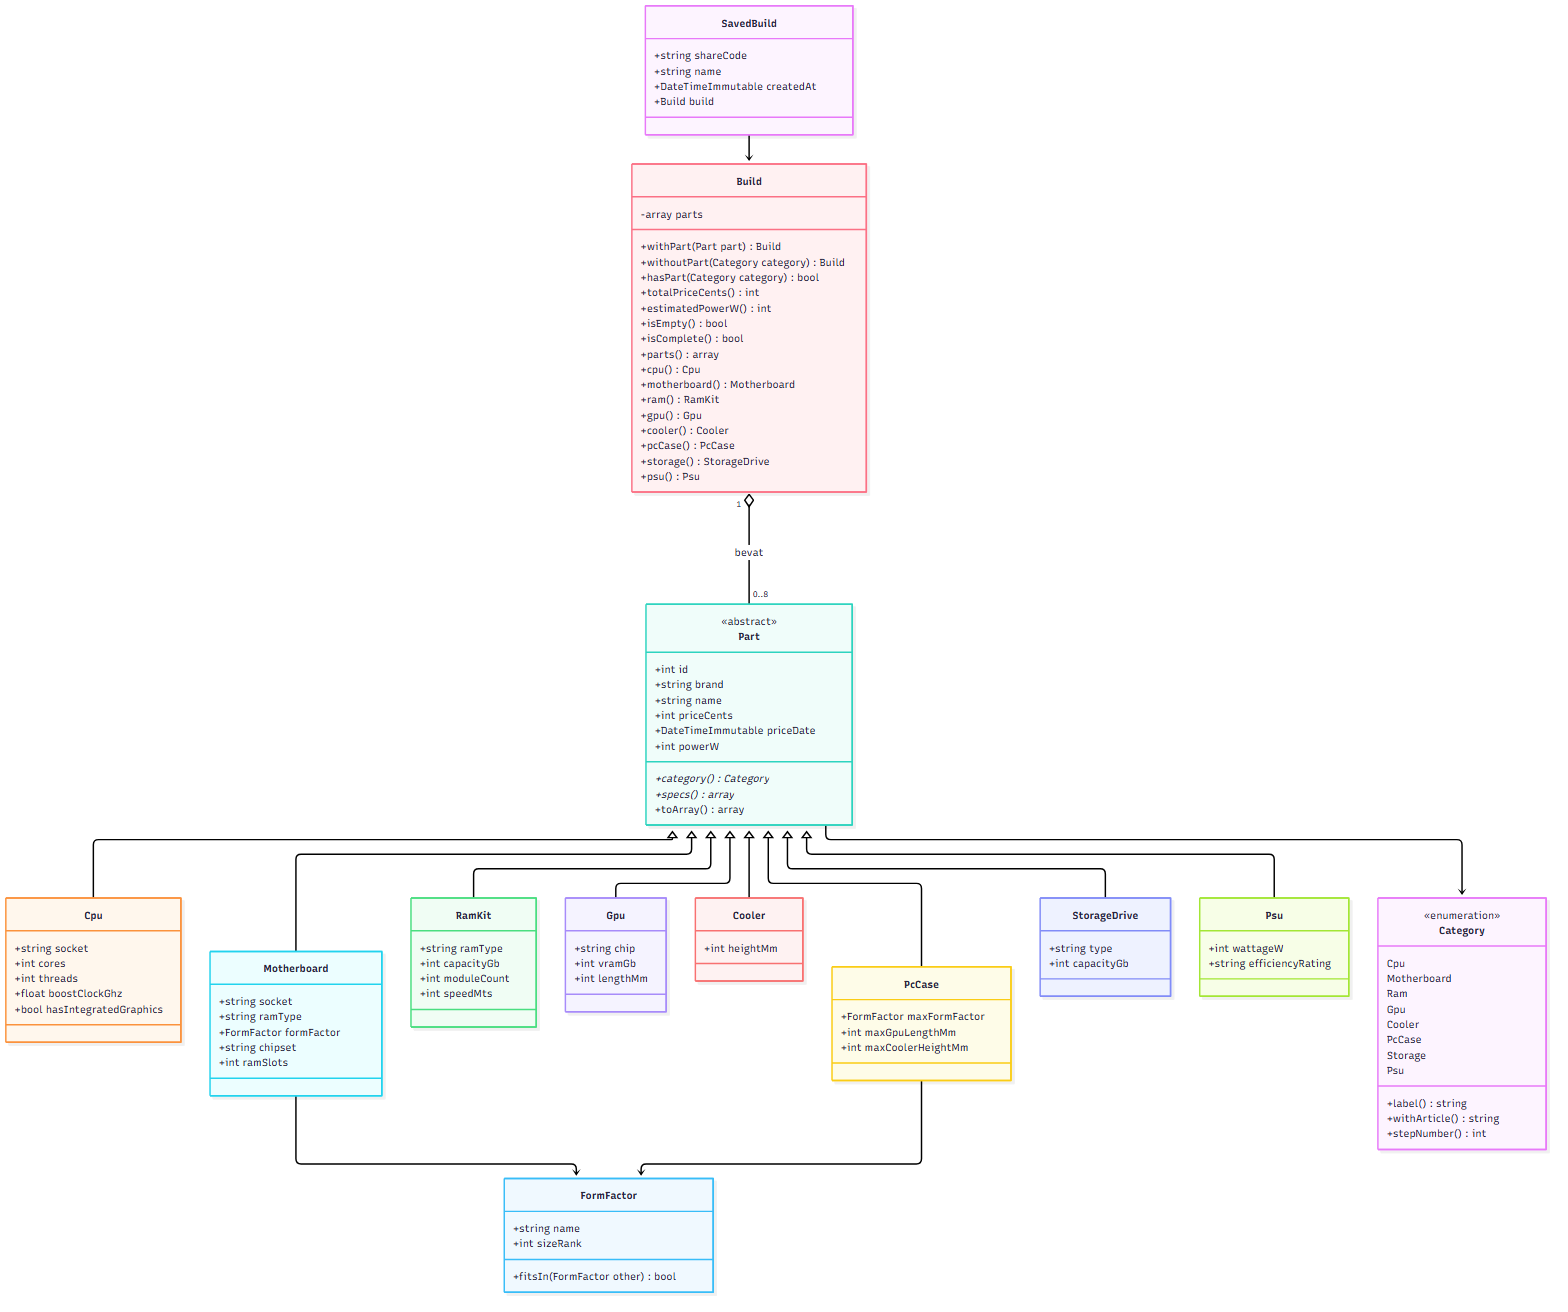
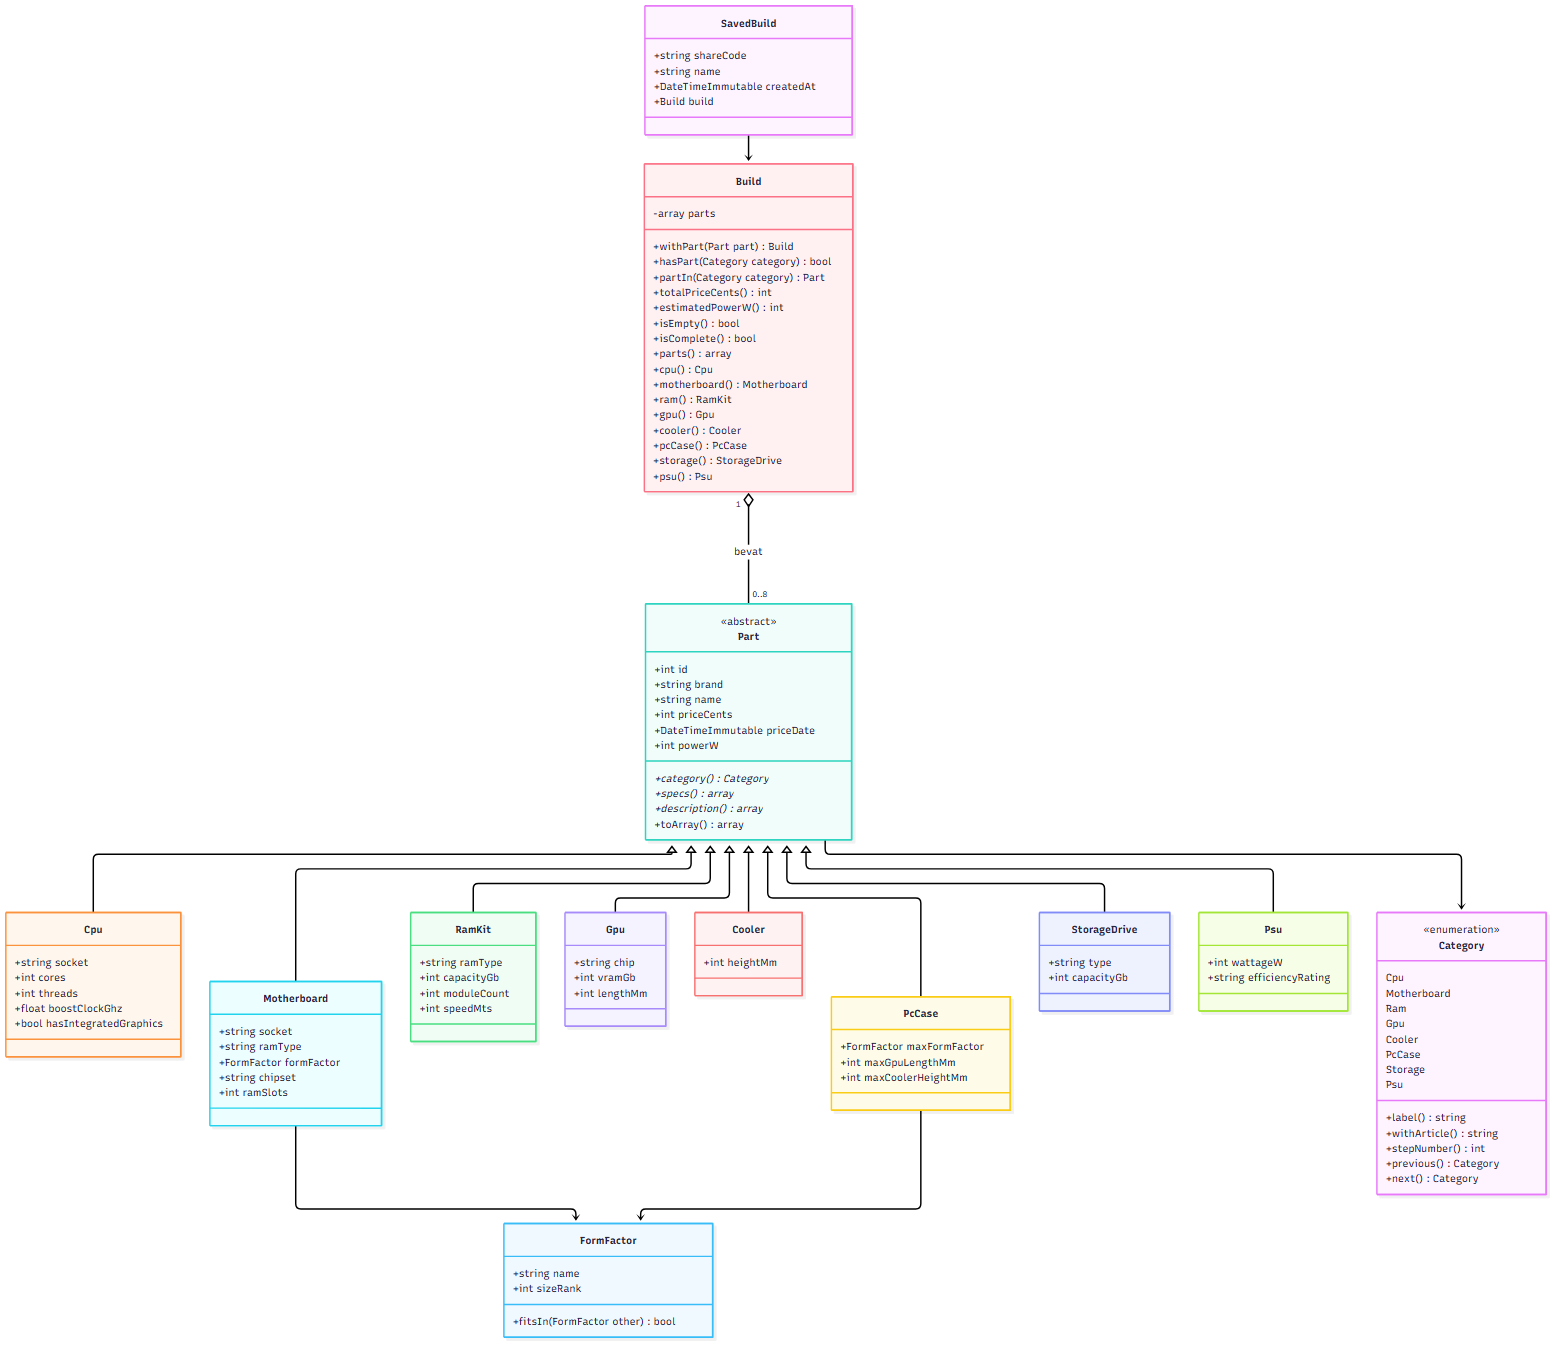
docs: ontwerp bijgewerkt met pagina's, templates en sessie

Changed region(s): [[0.0, 0.0, 0.9688, 0.9062], [0.3125, 0.875, 0.4688, 1.0], [0.1875, 0.875, 0.2188, 0.9062]]

diff --git a/docs/ontwerp.md b/docs/ontwerp.md
@@ -4,13 +4,14 @@ In dit document staat hoe de PC-bouwplanner in elkaar zit. De diagrammen zijn ge
 
 ## 1. Opbouw in lagen
 
-De applicatie heeft twee ingangen: webpagina's voor de gebruiker en een REST API die JSON teruggeeft. Allebei gebruiken ze dezelfde logica, zodat de controle en de aanbeveling maar op één plek staan.
+De applicatie heeft twee ingangen: webpagina's voor de gebruiker en een REST API die JSON teruggeeft voor andere programma's. Allebei gebruiken ze dezelfde logica, zodat de controle en de aanbeveling maar op één plek staan.
 
 ```mermaid
 flowchart TB
     browser[Browser]
+    client[Andere programma's]
     browser -->|"formulieren en links (HTML)"| pages[Paginacontrollers]
-    browser -->|"fetch vanuit JavaScript (JSON)"| api[API-controllers]
+    client -->|"verzoeken (JSON)"| api[API-controllers]
     subgraph logica [Logica]
         checker[CompatibilityChecker en regels]
         recommender[Recommender]
@@ -33,7 +34,7 @@ flowchart TB
 | Weergave | `templates/` | PHP-templates die de HTML maken. |
 | Database | `database/` | `schema.sql` met de tabellen, `seed.php` om de database te vullen en in `data/` de onderdelen zelf. |
 | Configuratie | `config/`, `.env` | Databasegegevens, voedingsmarge en budgetverdeling. |
-| Tests | `tests/Unit/`, `tests/Database/`, `tests/Api/` | PHPUnit-tests. In `tests/Support/` staan hulpklassen. |
+| Tests | `tests/Unit/`, `tests/Database/`, `tests/Api/`, `tests/Pages/` | PHPUnit-tests. In `tests/Support/` staan hulpklassen. |
 
 ## 2. Usecasediagram
 
@@ -219,6 +220,8 @@ classDiagram
         +label() string
         +withArticle() string
         +stepNumber() int
+        +previous() Category
+        +next() Category
     }
     class Part {
         <<abstract>>
@@ -230,6 +233,7 @@ classDiagram
         +int powerW
         +category() Category*
         +specs() array*
+        +description() array*
         +toArray() array
     }
     class Cpu {
@@ -281,8 +285,8 @@ classDiagram
     class Build {
         -array parts
         +withPart(Part part) Build
-        +withoutPart(Category category) Build
         +hasPart(Category category) bool
+        +partIn(Category category) Part
         +totalPriceCents() int
         +estimatedPowerW() int
         +isEmpty() bool
@@ -323,7 +327,7 @@ De klasse voor een kast heet `PcCase`, omdat `case` in PHP een gereserveerd woor
 
 `Build` heeft voor elk onderdeel een eigen methode, zoals `cpu()` en `psu()`. Een eerdere versie van dit ontwerp had één methode `part(Category)`, maar die geeft alleen een `Part` terug. Met `cpu()` weet PHP dat het om een `Cpu` gaat, dus de regels kunnen `$build->cpu()->socket` gebruiken en de editor kent de velden. Deze methodes mag je alleen aanroepen als het onderdeel gekozen is, dat controleert de `CompatibilityChecker` eerst met `hasPart()`.
 
-`withPart` en `withoutPart` geven een nieuwe `Build` terug in plaats van de bestaande te veranderen. Zo kan de controle een onderdeel "proberen" zonder de echte build van de gebruiker aan te passen. De aanbeveling gebruikt `withPart` om onderdelen te proberen, `withoutPart` komt er met F-04.
+`withPart` en `withoutPart` geven een nieuwe `Build` terug in plaats van de bestaande te veranderen. Zo kan de controle een onderdeel "proberen" zonder de echte build van de gebruiker aan te passen. De aanbeveling en de grijze onderdelen gebruiken `withPart` om een onderdeel te proberen.
 
 ### 4.2 Compatibiliteit
 
@@ -347,7 +351,7 @@ classDiagram
         -array rules
         +withAllRules(int psuMarginPercent) CompatibilityChecker$
         +check(Build build) CheckReport
-        +conflictsFor(Build build, Part candidate) array
+        +problemsFor(Build build, Part candidate) array
     }
     class CheckReport {
         +array results
@@ -362,6 +366,7 @@ classDiagram
         +string ruleName
         +CheckStatus status
         +string message
+        +isProblem() bool
     }
     class CheckStatus {
         <<enumeration>>
@@ -397,7 +402,7 @@ Elke regel is een eigen klasse met dezelfde interface. De `CompatibilityChecker`
 
 `withAllRules()` maakt een checker met alle zes de regels. De marge van de voeding komt uit `config/app.php`.
 
-`conflictsFor()` wordt gebruikt om onderdelen grijs te maken (F-12): de checker voegt het kandidaat-onderdeel toe aan een kopie van de build en geeft de fouten terug van regels waar dat onderdeel bij hoort. Deze methode komt er met F-12, net als `label()` op `CheckStatus` en `OverallStatus` voor de teksten op de pagina's.
+`problemsFor()` wordt gebruikt om onderdelen grijs te maken (F-12): de checker probeert het onderdeel in een kopie van de build en geeft de fouten en waarschuwingen terug die dat oplevert. Een probleem telt mee als de regel over dit onderdeel gaat, of als het probleem er zonder dit onderdeel niet was. Zo krijgt een videokaart die de voeding overbelast ook een melding, en krijgt een SSD niet de schuld van een verkeerde socket.
 
 ### 4.3 Aanbeveling, opslag en controllers
 
@@ -488,7 +493,7 @@ classDiagram
     RecommendationApiController --> PartRepository
 ```
 
-De paginacontrollers (`BuildPageController`, `RecommendationPageController`) gebruiken dezelfde repositories en logica als de API-controllers, maar geven HTML terug in plaats van JSON.
+De paginacontrollers (`HomePageController`, `BuildPageController`, `RecommendationPageController`) gebruiken dezelfde repositories en logica als de API-controllers, maar geven HTML terug in plaats van JSON.
 
 ### 4.4 HTTP-laag
 
@@ -526,19 +531,44 @@ classDiagram
         +json(array data, int status) Response$
         +send() void
     }
-    class ApiException {
+    class HttpException {
         +int status
         +string errorCode
+    }
+    class Input {
+        +category(string value) Category$
+        +maxPriceCents(string value) int$
+        +partFilter(Request request, Category category) PartFilter$
+        +buildName(mixed name) string$
+        +buildToSave(Build build) Build$
+        +budget(string value) int$
+        +goal(string value) Goal$
+    }
+    class View {
+        +render(string template, array data, int status) Response
+        +partial(string template, array data) string
+        +e(mixed value) string
+        +money(int cents) string
+        +date(DateTimeImmutable date) string
+    }
+    class WorkingBuild {
+        +build() Build
+        +choose(Part part) void
+        +remove(Category category) void
     }
 
     Application --> Router
     Router ..> Request
     Router ..> Response
-    Router ..> ApiException : gooit
-    Application ..> ApiException : vangt
+    Router ..> HttpException : gooit
+    Application ..> HttpException : vangt
+    Input ..> HttpException : gooit
+    View ..> Response : maakt
 ```
 
-`Application` is de enige plek waar fouten worden afgevangen. Een `ApiException` is een fout die de gebruiker mag zien, zoals een onbekende categorie. Alle andere fouten geven een 500 met een algemene melding, en de echte fout gaat naar het logbestand. Zo komen er nooit technische details bij de gebruiker terecht.
+`Application` is de enige plek waar fouten worden afgevangen. Een `HttpException` is een fout die de gebruiker mag zien, zoals een onbekende categorie. Alle andere fouten geven een 500 met een algemene melding, en de echte fout gaat naar het logbestand. Zo komen er nooit technische details bij de gebruiker terecht. Paden die met `/api/` beginnen krijgen de fout als JSON, alle andere als HTML-pagina.
+
+`Input` bevat alle controles op invoer, zodat de API en de pagina's dezelfde regels gebruiken. `View` maakt HTML van de templates in `templates/`. `e()` escapet tekst, zodat HTML die een gebruiker invult nooit als code wordt uitgevoerd. `WorkingBuild` bewaart de build waar de gebruiker mee bezig is in de sessie.
 
 ## 5. Activiteitendiagram compatibiliteitscheck
 
@@ -777,16 +807,24 @@ Voorbeeld van een foutmelding:
 | Pad | Pagina |
 |---|---|
 | `/` | Startpagina met de keuze: zelf samenstellen of een aanbeveling vragen. Ook een veld om een deelcode in te vullen. |
-| `/bouwen/{categorie}` | Eén stap van de bouwplanner, met filters en kaartjes. |
+| `/bouwen/{categorie}` | Eén stap van de bouwplanner, met filters en kaartjes. De categorie is de Engelse waarde, zoals `cpu`. |
+| `/bouwen/{categorie}/kiezen` | POST: kiest een onderdeel en stuurt terug naar de stap. |
+| `/bouwen/{categorie}/verwijderen` | POST: haalt het onderdeel weg en stuurt terug naar de stap. |
 | `/overzicht` | Alle gekozen onderdelen, het controleresultaat en het formulier om op te slaan. |
+| `/opslaan` | POST: slaat de build op en stuurt door naar de opgeslagen build. |
+| `/build/open` | Verwerkt het veld met de deelcode op de startpagina. |
 | `/build/{code}` | Een opgeslagen build. |
 | `/aanbeveling` | Formulier voor budget en doel, en daaronder het resultaat. |
 
 De build waar de gebruiker mee bezig is, staat in de PHP-sessie. Kiezen en verwijderen gaat met een gewoon formulier (POST). Daarna stuurt de server de browser door naar dezelfde stap, zodat vernieuwen de keuze niet opnieuw verstuurt. Zo werkt alles zonder JavaScript (NF-07).
 
-Er is één klein JavaScript-bestand. Als JavaScript aan staat, verstuurt het de keuze op de achtergrond en haalt het via `POST /api/builds/check` de nieuwe totaalprijs, het verbruik en de status op, zonder dat de pagina opnieuw laadt.
+Er is één klein JavaScript-bestand, `public/js/live.js`, van ongeveer 30 regels. Als JavaScript aan staat, verstuurt het de keuze op de achtergrond. De server geeft de normale pagina terug, en het script vervangt alleen de stappen, de kaartjes en de totalen. Alle logica blijft dus in PHP. De totalen staan in een `aria-live`-gebied, zodat een schermlezer de nieuwe prijs voorleest, en de focus blijft op hetzelfde kaartje. Op een telefoon klapt het script ook de filters in, die in een `<details>`-blok staan. Zonder JavaScript staat dat blok gewoon open.
+
+In een eerdere versie van dit ontwerp haalde het script de totalen op via `POST /api/builds/check`. Dat is veranderd, zie [keuzes.md](keuzes.md).
 
 ### 9.1 Schermontwerp bouwstap
+
+Dit zijn de schetsen van voor het bouwen. De echte schermen staan in [docs/img](img/), bijvoorbeeld [de stap met onderdelen die niet passen](img/scherm-onderdelen-die-niet-passen.png), [het overzicht](img/scherm-overzicht-met-fout.png), [de aanbeveling](img/scherm-aanbeveling.png) en [de telefoonweergave](img/scherm-telefoon.png).
 
 Desktop:
 
@@ -847,17 +885,17 @@ De namen op de kaartjes in deze schetsen zijn voorbeelden. De echte onderdelen k
 |---|---|
 | F-01 | ERD (§3), `database/seed.php` |
 | F-02, F-03, F-20 | `PartRepository`, `PartFilter`, pagina `/bouwen/{categorie}`, `GET /api/parts` |
-| F-04 | Pagina's (§9), `Build`, sessie |
+| F-04 | Pagina's (§9), `BuildPageController`, `WorkingBuild` |
 | F-05 t/m F-10 | Regels (§6), klassendiagram compatibiliteit (§4.2) |
 | F-11 | `CheckReport`, `CheckStatus`, `OverallStatus`, activiteitendiagram (§5) |
-| F-12 | `CompatibilityChecker::conflictsFor()` |
+| F-12 | `CompatibilityChecker::problemsFor()`, `templates/partials/part-card.php` |
 | F-13 | `Build::totalPriceCents()`, `Build::estimatedPowerW()`, JavaScript (§9) |
 | F-14, F-15 | `BuildRepository`, tabellen `builds` en `build_parts`, `POST /api/builds`, `GET /api/builds/{code}` |
 | F-16, F-17 | `Recommender` (§7), `GET /api/recommendation` |
 | F-18 | REST API (§8) |
 | F-19 | Pagina `/aanbeveling`, sessie |
 | F-21 | Extra regel `IntegratedGraphicsRule` (zelfde interface als §4.2) |
-| NF-01, NF-02 | Schermontwerp (§9.1), CSS |
+| NF-01, NF-02 | `public/css/style.css`, templates |
 | NF-03 | `PartRepository` en `BuildRepository` met prepared statements, escaping in de templates |
 | NF-04 | `config/app.php`, `.env` |
-| NF-07 | Formulieren met doorsturen na POST (§9) |
+| NF-07 | Formulieren met doorsturen na POST, `public/js/live.js` (§9) |
